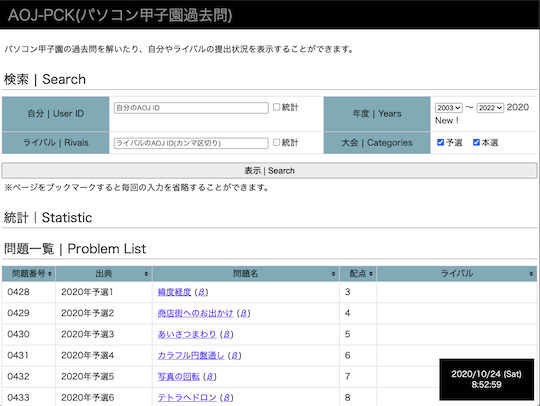
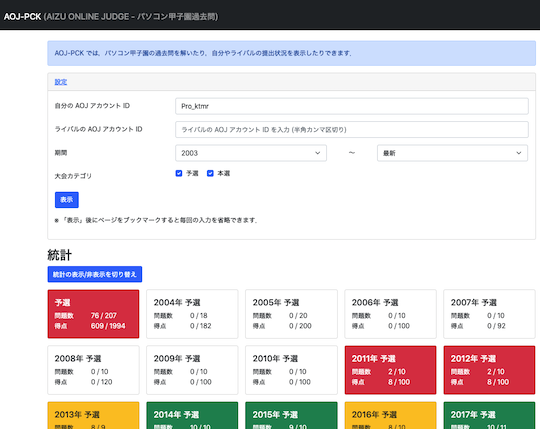
:recycle: Update url and figure (#4227)

diff --git a/related_contest_sites.md b/related_contest_sites.md
@@ -70,7 +70,7 @@ filename: related_contest_sites
     <img loading = "lazy" src="images/related_contest_sites/aoj/aoj_icpc.png" alt="aoj icpc">
   </div>
 
-- [AOJ-PCK](http://aoj-pck.vsw.jp/) - パソコン甲子園の過去問やユーザの提出状況を確認できるWebサイト。
+- [AOJ-PCK](https://pro-ktmr.github.io/aoj-pck/) - パソコン甲子園の過去問やユーザの提出状況を確認できるWebサイト。
 
   <div align="center">
     <img loading = "lazy" src="images/related_contest_sites/aoj/aoj_pck.png" alt="aoj pck">
